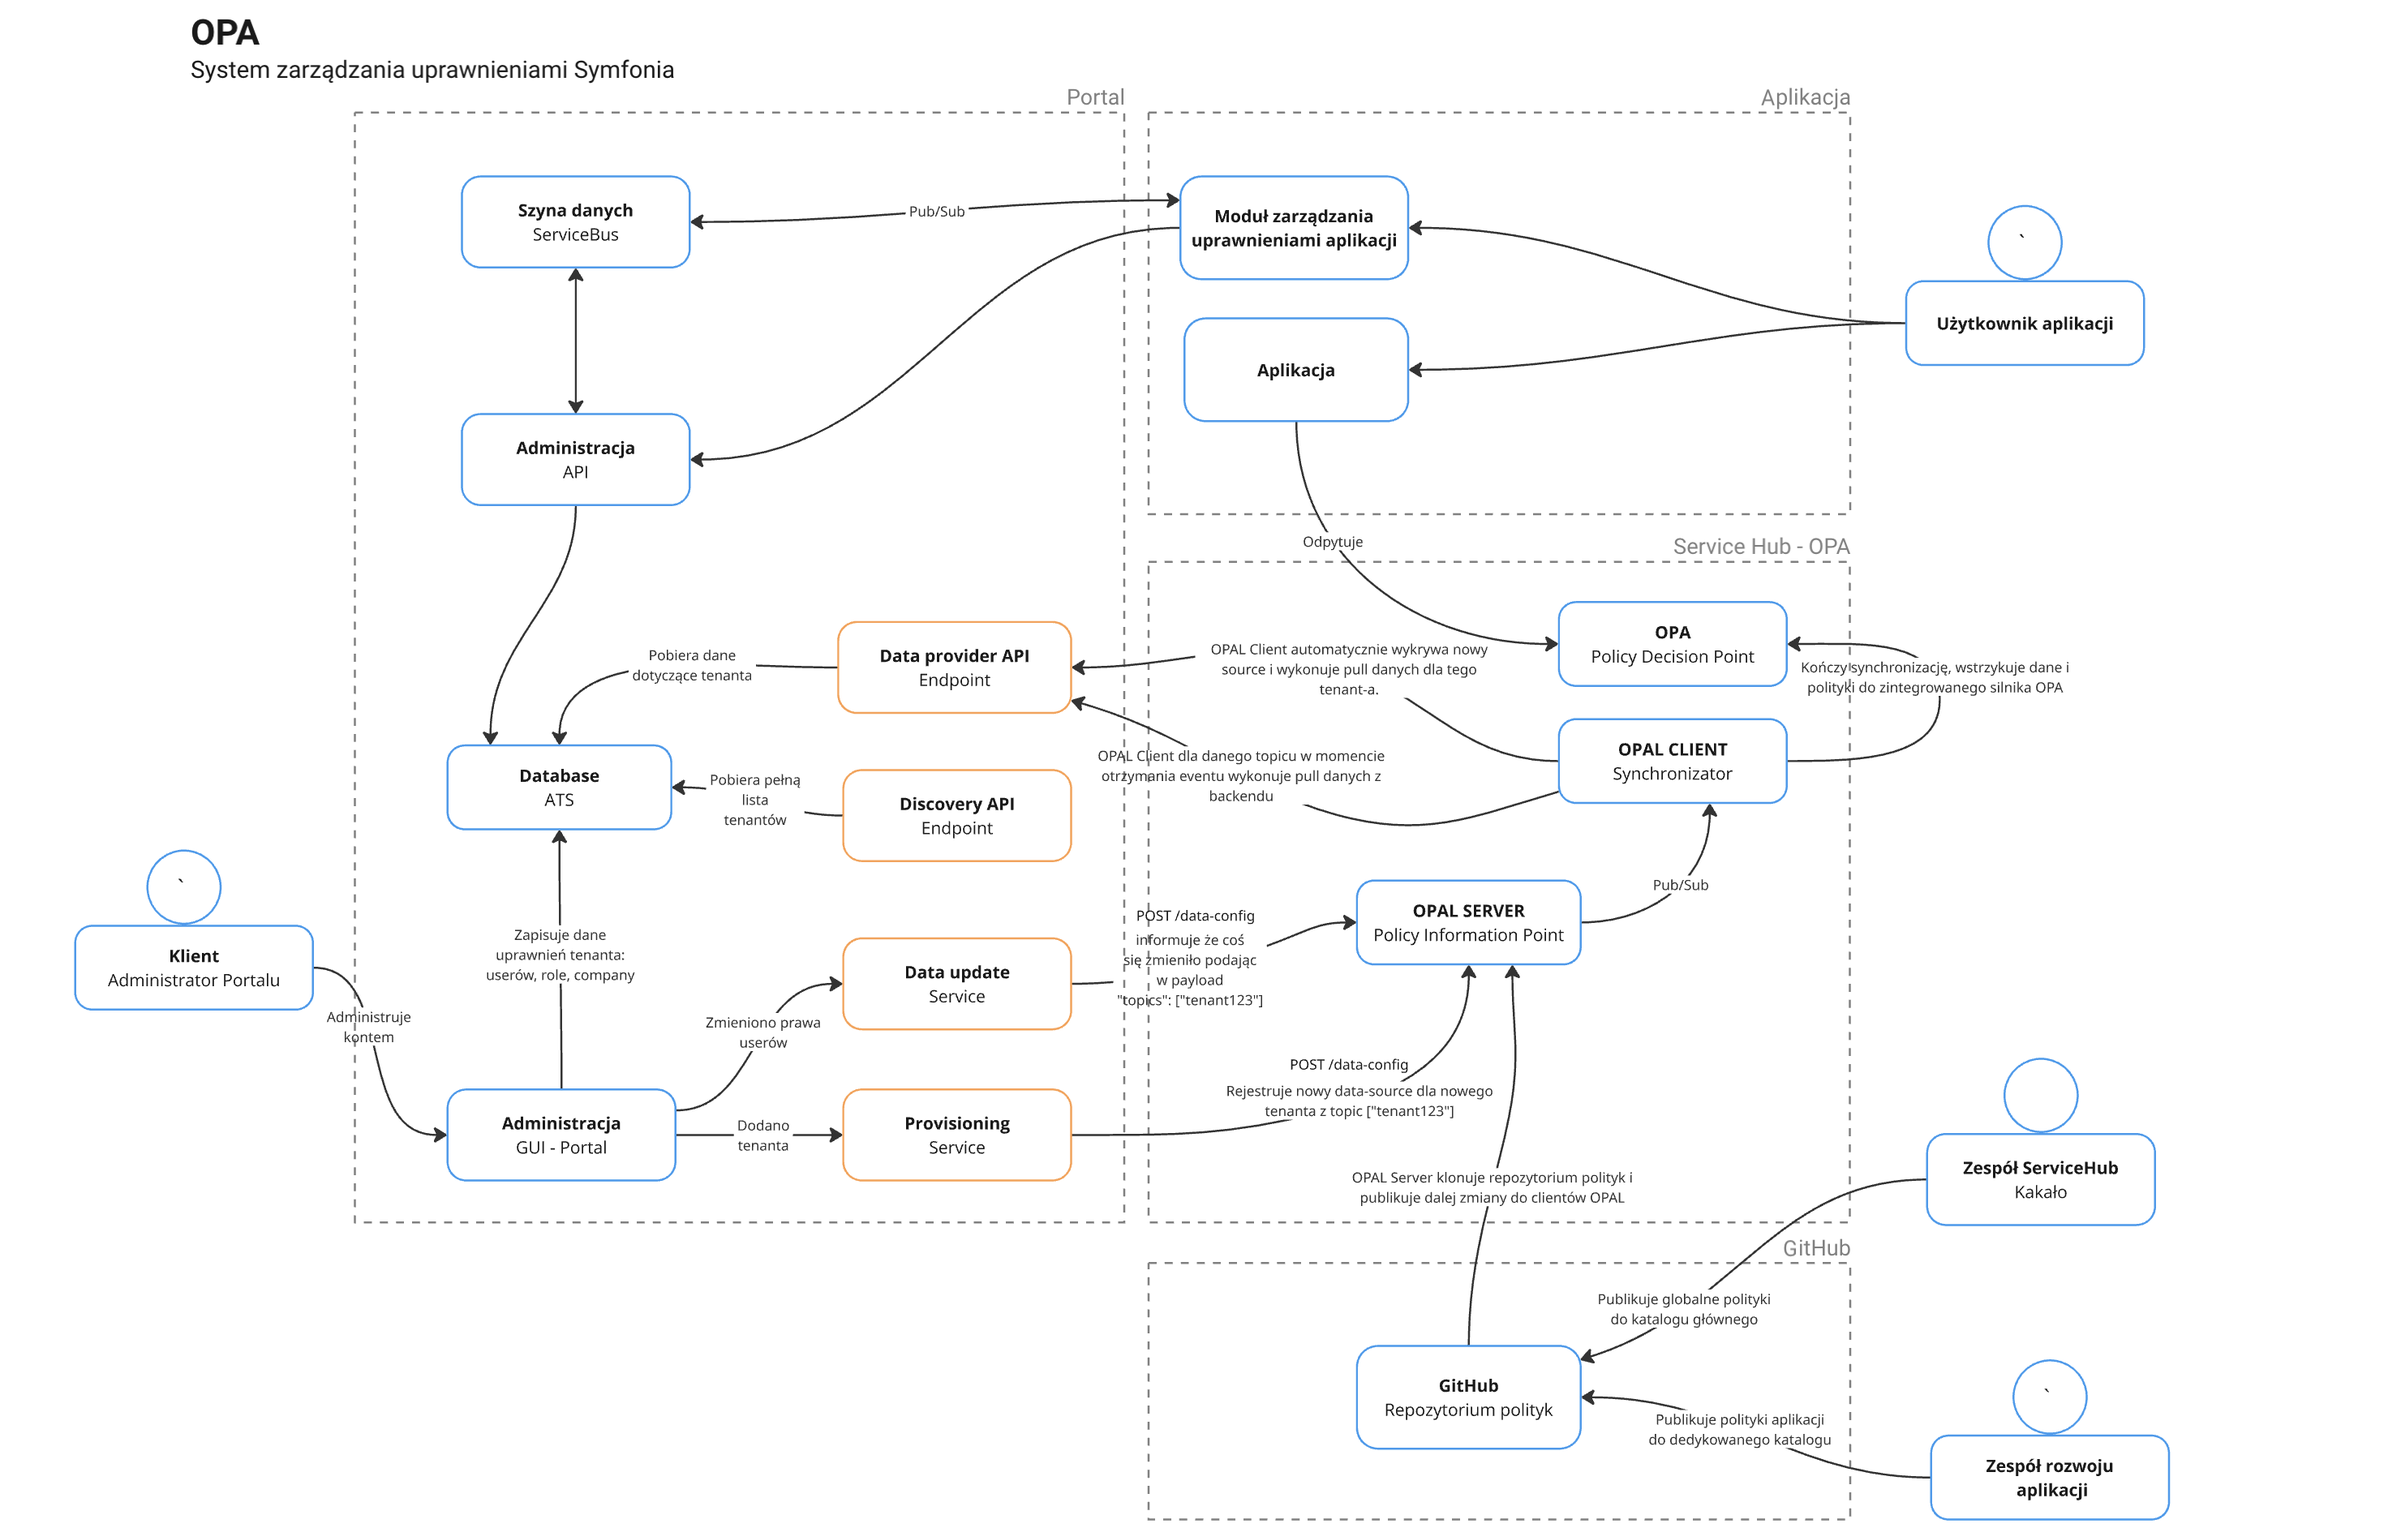
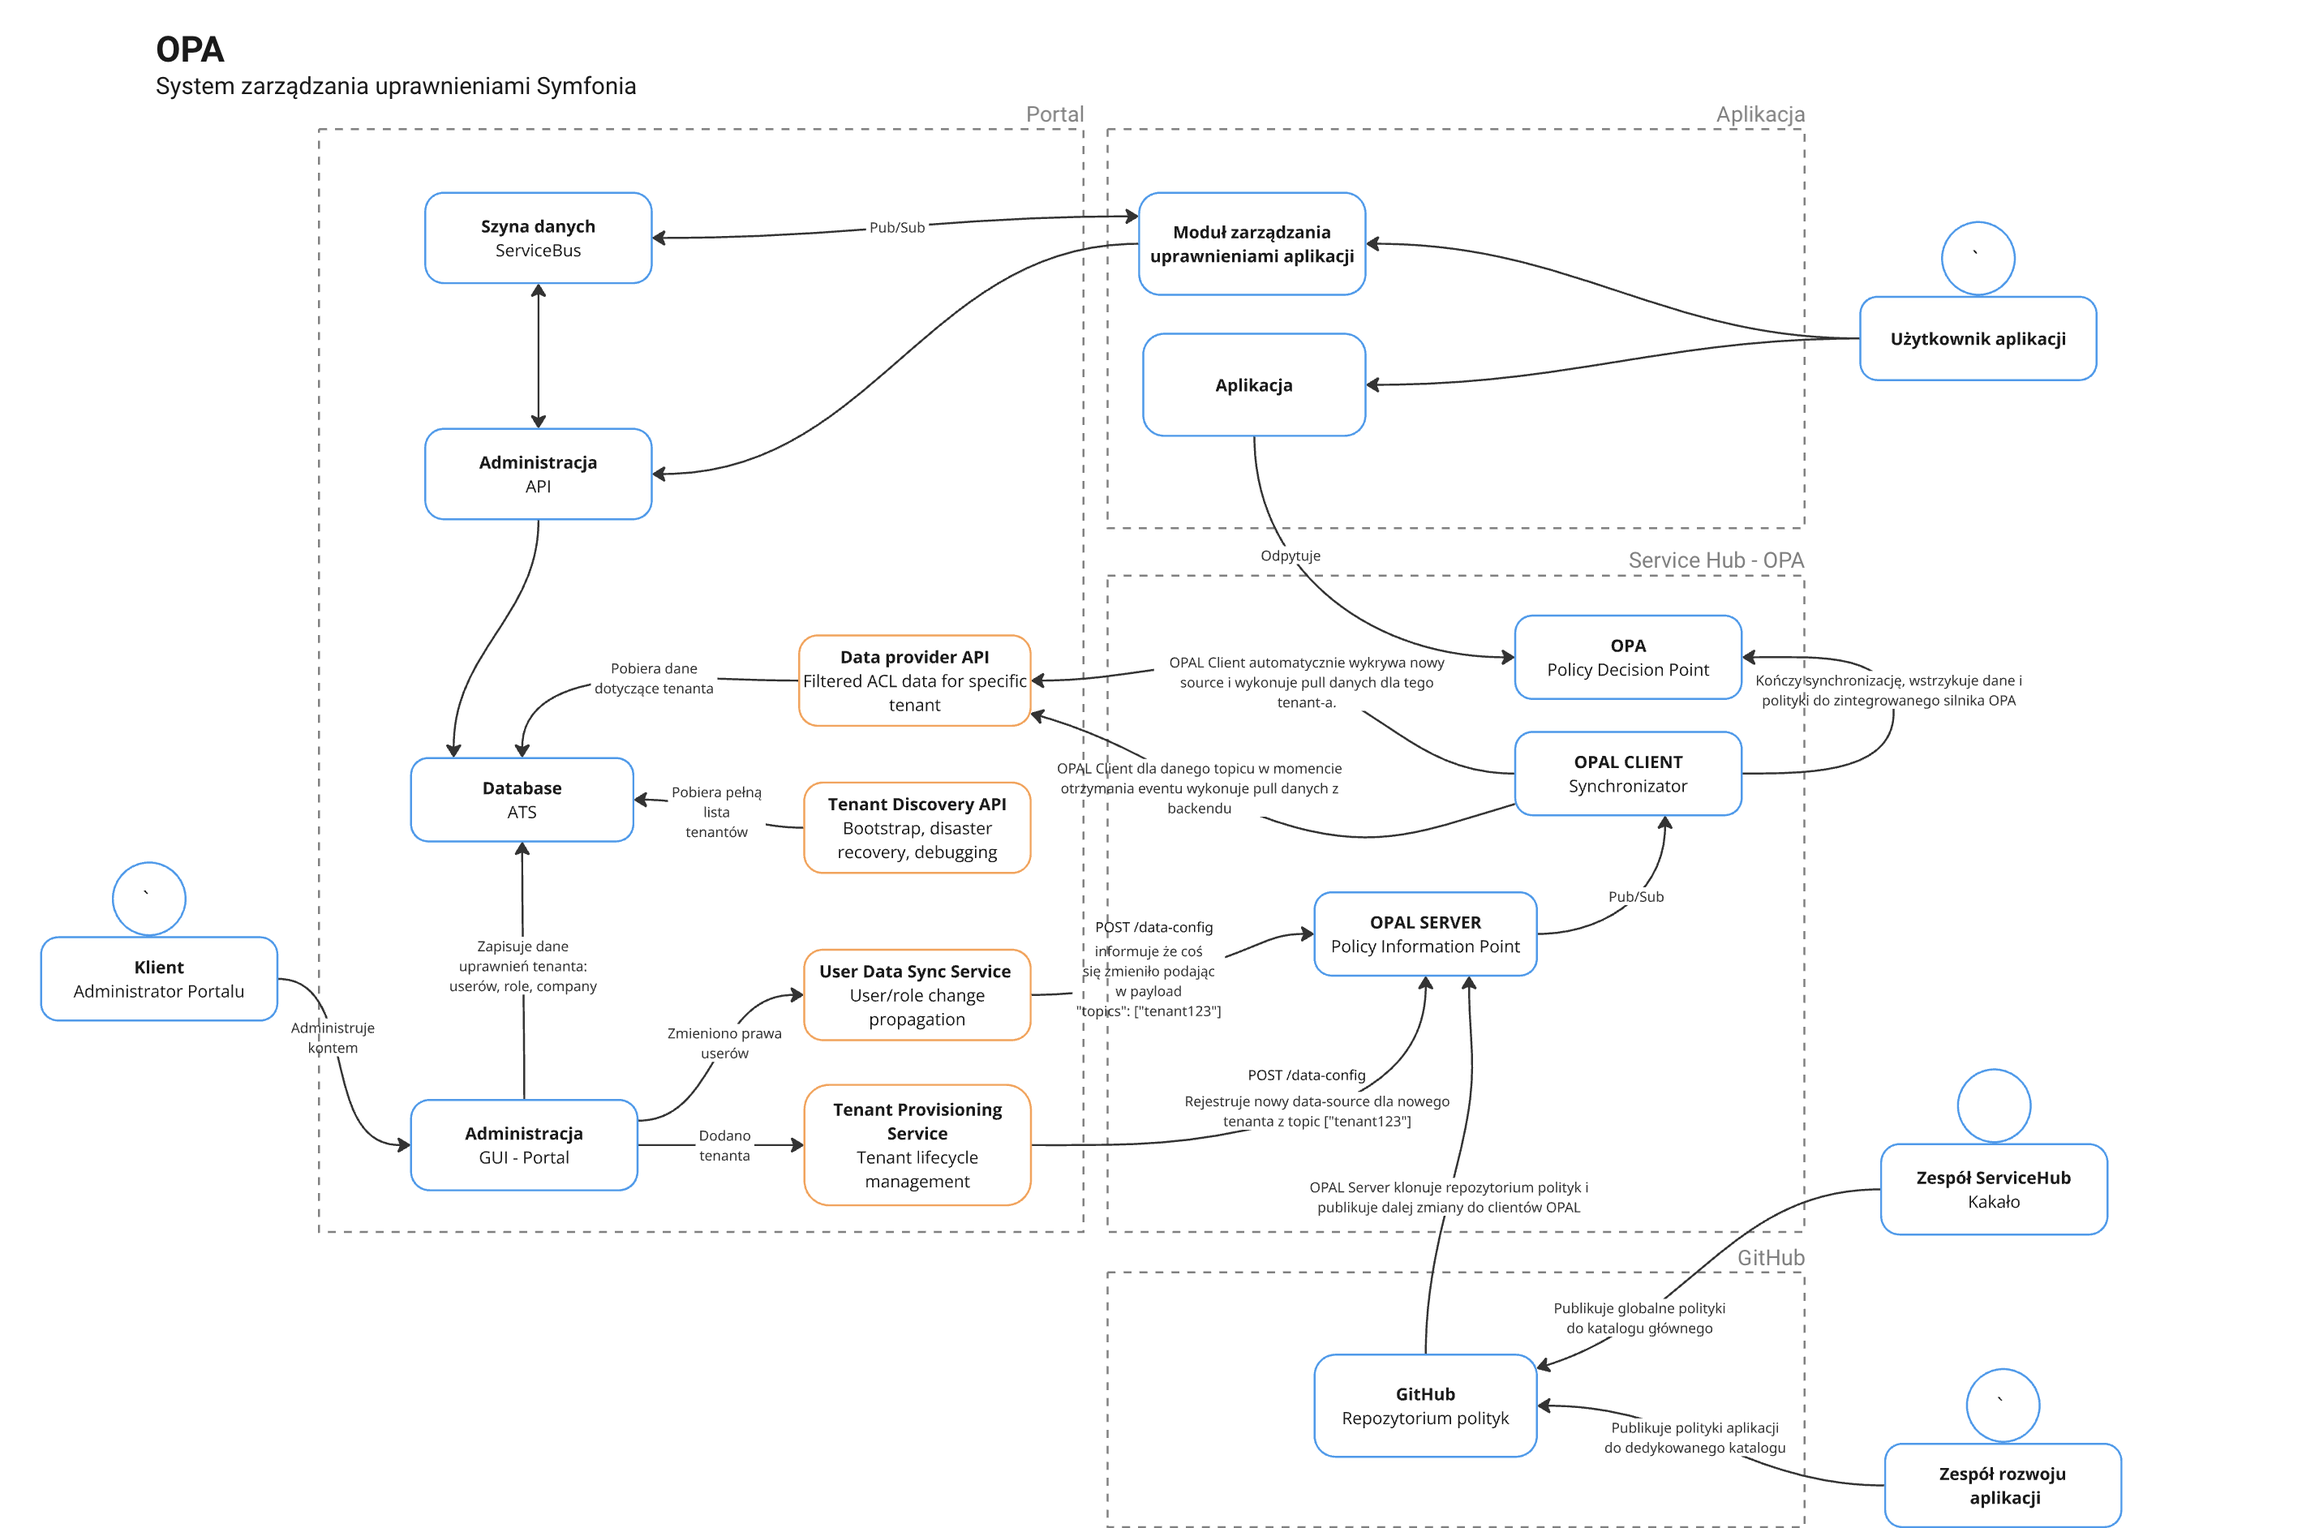
feat: Update architecture to target design and add Policy Management Service - replace POC diagram with event-driven target architecture

diff --git a/README.md b/README.md
@@ -58,14 +58,17 @@ Docelowy system ma obsługiwać:
 
 ```mermaid
 graph TD
-    A[GitHub Repo<br/>policies/] -- webhook --> B(Data Provider API)
-    B -- REST: /tenants, /acl, /webhook --> C(Integration Scripts)
-    C -- REST: /v1/data/tenant_data --> D(OPA Standalone)
-    B -- REST: /tenants, /acl --> E(Provisioning API)
-    E -- REST: /tenants --> B
-    D -- sync --> F(OPAL Client)
-    F -- sync --> G(OPAL Server)
-    G -- update --> D
+    A[Tenant Created Event] --> B[Tenant Provisioning Service]
+    C[User Role Changed Event] --> D[User Data Sync Service]
+    D --> E[OPAL Server POST /data-config]
+    E --> F[OPAL Client]
+    F --> G[Data Provider API?tenant_id=X]
+    G --> F
+    H[GitHub Policy Webhook] --> I[Policy Management Service]
+    I --> E
+    J[Recovery Process] --> K[Tenant Discovery API]
+    K --> L[Full Data Export]
+    M[Manual Policy API] --> I
 ```
 
 - **Data Provider API** (Flask, port 8110) – dostarcza dane ACL dla tenantów, odbiera webhooki GitHub, orkiestruje synchronizację danych
@@ -247,4 +250,4 @@ docker-compose logs opal-server
 docker-compose logs -f
 ```
 
---- 
+---
